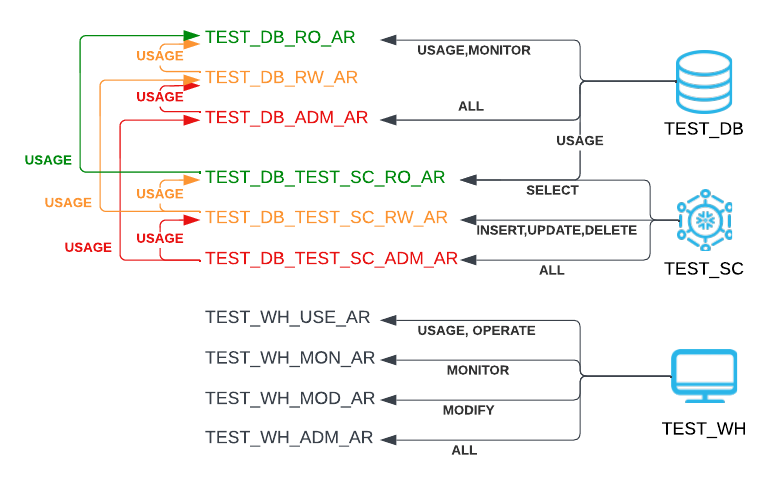
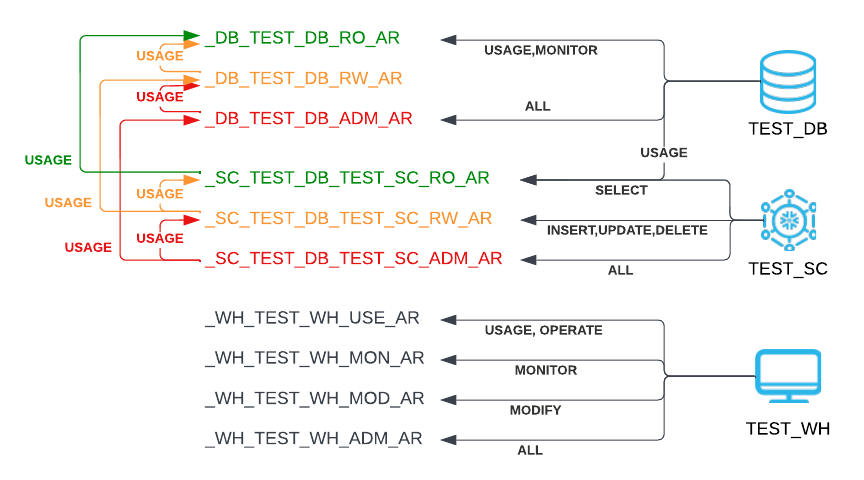
Updated illustrations and text to go with them

diff --git a/README.md b/README.md
@@ -2,6 +2,18 @@
 
 Snowflake Database, Schema, and Warehouse provisioning
 
+## Table of Contents
+
+1. [Overview](#overview)
+1. [Configuration](#configuration)
+1. [Executing](#executing)
+   1. [Creating and Dropping Warehouses](#creating-and-dropping-warehouses)
+1. [Automating](#automating_functional_roles)
+1. [Deficiencies](#deficiencies)
+1. [Author](#author)
+1. [Credits](#credits)
+1. [License](#license)
+
 ## Overivew
 
 Python based Snowflake Database/Schema/Warehouse Provisioning script that provides a frame-work for deploying objects with configurable and customizable access roles. The naming convention of using a postfix of _AR for access roles and a postfix _FR for functional roles provides clear separation between roles. In order for the access roles to show up towards the end of your role drop-downs in both the Snowflake Classic UI and Snowsight all roles are prefixed with a single underscore and is configurable so a database can be prefixed with _DB and a warehouse with _WH separately. 
@@ -18,8 +30,8 @@ It can of course also be managed manually creating roles and granting access dir
 
 ```
 CREATE ROLE IF NOT EXISTS TEST_READER_FR;
-GRANT ROLE TEST_DB_TEST_SC_RO_AR TO ROLE TEST_READER_FR;
-GRANT ROLE TEST_WH_USE_AR        TO ROLE TEST_READER_FR;
+GRANT ROLE _SC_TEST_DB_TEST_SC_RO_AR TO ROLE TEST_READER_FR;
+GRANT ROLE _WH_TEST_WH_USE_AR        TO ROLE TEST_READER_FR;
 ```
 
 Leading to the following role hierarchy:
@@ -28,17 +40,6 @@ Leading to the following role hierarchy:
 
 With this flexible tool you can embed environment names in your naming convention like including PROD/TEST/DEV in your name. An example could be =PROD_TEST_DB=. Now you can rely on your Role-Based Acces Control only having access to PROD roles by limiting to roles with PROD in the beginning of the name.
 
-## Table of Contents
-
-1. [Overview](#overview)
-1. [Configuration](#configuration)
-1. [Executing](#executing)
-   1. [Creating and Dropping Warehouses](#creating-and-dropping-warehouses)
-1. [Automating](#automating_functional_roles)
-1. [Deficiencies](#deficiencies)
-1. [Author](#author)
-1. [Credits](#credits)
-1. [License](#license)
 
 ## Configuration
 
@@ -170,7 +171,17 @@ SHOW GRANTS ON TEST_READER_FR;
 SHOW FUTURE GRANTS IN DATABASE;
 SHOW FUTURE GRANTS IN DATABASE.SCHEMA;
 ```
-This starts becoming a problem when you have too many objects deployed and will need a simple cache of future grants updated everytime new databases, schemas, or warehouses are provisioned/deprovisioned.
+If your provisioning of objects is entirely governed by a the consistent naming convention `sf_create_obj` provides you can make it even simpler based on the available access roles in the account:
+
+```
+show roles like '_%_AR'
+parse output
+for each role you care about:
+  show grants to role
+  add/remove grants needed
+
+```
+
 
 ## Deficiencies 
 
